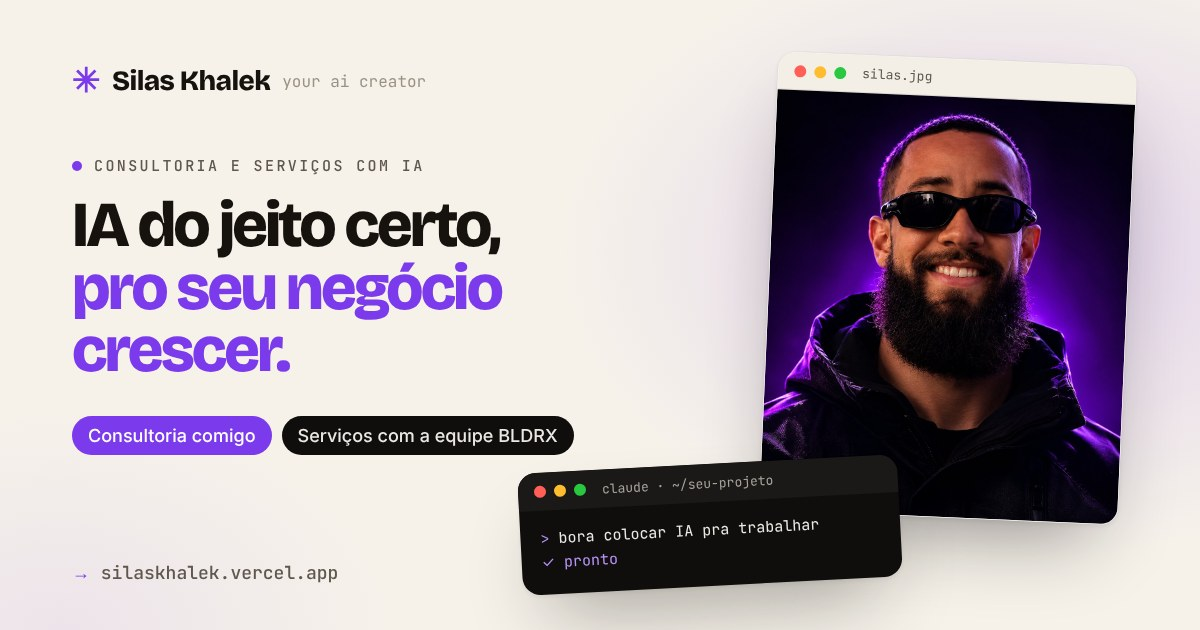
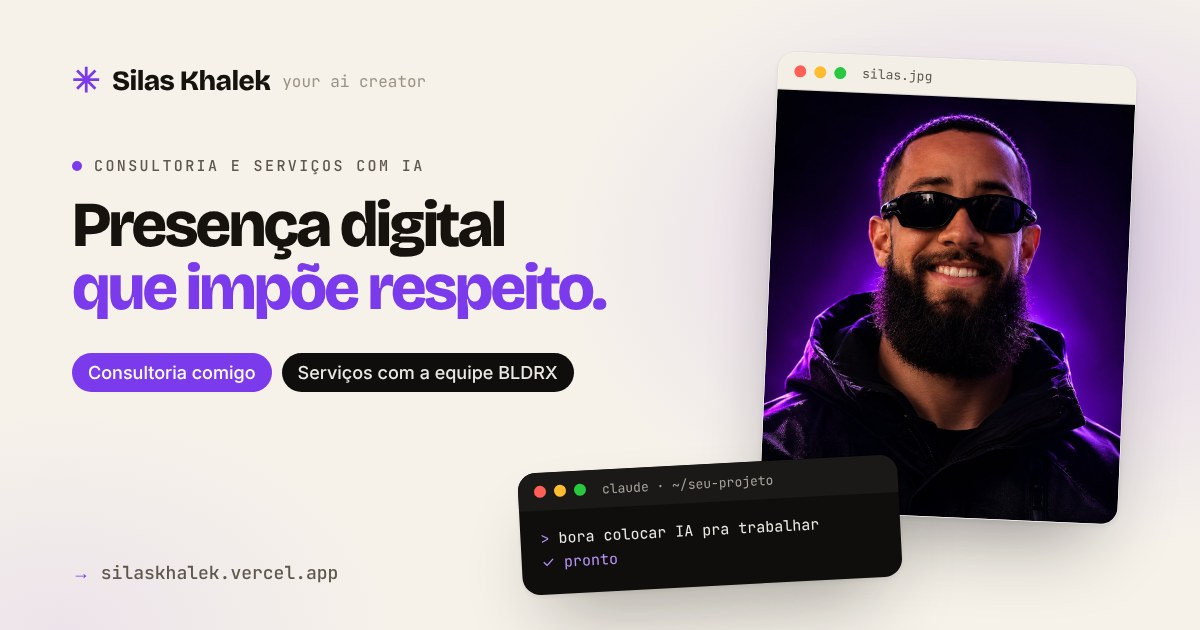
Novo título do topo: Presença digital que impõe respeito
Subtítulo e botão principal seguem a frase nova; o WhatsApp vira o
botão secundário. Ajusta espaçamento do título e a imagem de
compartilhamento.

Claude-Session: https://claude.ai/code/session_016ND2aePbE3LudSNE2NCWpp

Changed region(s): [[0.0617, 0.3016, 0.5242, 0.7238]]

diff --git a/index.html b/index.html
@@ -19,7 +19,7 @@
   <meta property="og:image:type" content="image/jpeg" />
   <meta property="og:image:width" content="1200" />
   <meta property="og:image:height" content="630" />
-  <meta property="og:image:alt" content="Silas Khalek: IA do jeito certo, pro seu negócio crescer. Consultoria e serviços com IA." />
+  <meta property="og:image:alt" content="Silas Khalek: Presença digital que impõe respeito. Consultoria e serviços com IA." />
   <meta name="twitter:card" content="summary_large_image" />
   <meta name="twitter:title" content="Silas Khalek · Consultoria e serviços com IA" />
   <meta name="twitter:description" content="Consultoria de IA comigo ou serviços personalizados com a equipe BLDRX." />
@@ -82,16 +82,15 @@
         <div class="hero__copy">
           <p class="kicker kicker--light reveal"><span class="dot"></span> Consultoria e serviços com IA</p>
           <h1 class="hero__title reveal">
-            IA do jeito certo,<br />
-            <em>pro seu negócio crescer.</em>
+            Presença digital<br />
+            <em>que impõe respeito.</em>
           </h1>
           <p class="hero__sub reveal">
-            Consultoria comigo ou a minha equipe construindo pra você, com Claude, ChatGPT,
-            Gemini e Higgsfield. Sem jargão e sem precisar programar.
+            Design, estratégia e tecnologia para marcas que querem ir além do básico.
           </p>
           <div class="hero__ctas reveal">
-            <a href="#ofertas" class="btn" data-wa="Oi, Silas! Vim pelo site e quero conversar sobre consultoria ou serviços.">Falar comigo no WhatsApp <span aria-hidden="true">→</span></a>
-            <a href="#ofertas" class="btn btn--glass">Ver as opções</a>
+            <a href="#ofertas" class="btn">Conhecer meu trabalho <span aria-hidden="true">→</span></a>
+            <a href="#ofertas" class="btn btn--glass" data-wa="Oi, Silas! Vim pelo site e quero conversar sobre consultoria ou serviços.">Falar comigo no WhatsApp</a>
           </div>
         </div>
 

diff --git a/styles.css b/styles.css
@@ -431,8 +431,9 @@ h1, h2, h3 { font-family: var(--display); font-weight: 700; text-wrap: balance; 
 
 .hero__title {
   margin: 0;
+  max-width: 11ch;
   font-size: clamp(40px, 5.2vw, 76px);
-  line-height: 0.94;
+  line-height: 1.02;
   letter-spacing: -0.04em;
   font-weight: 800;
   text-transform: uppercase;
